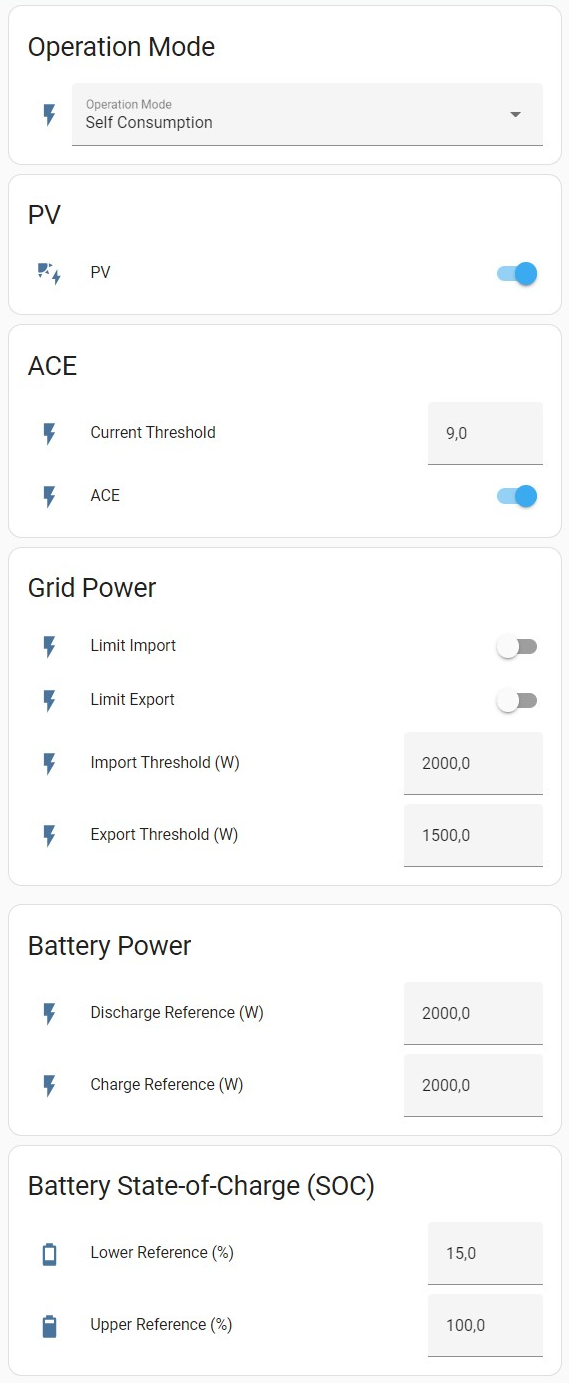
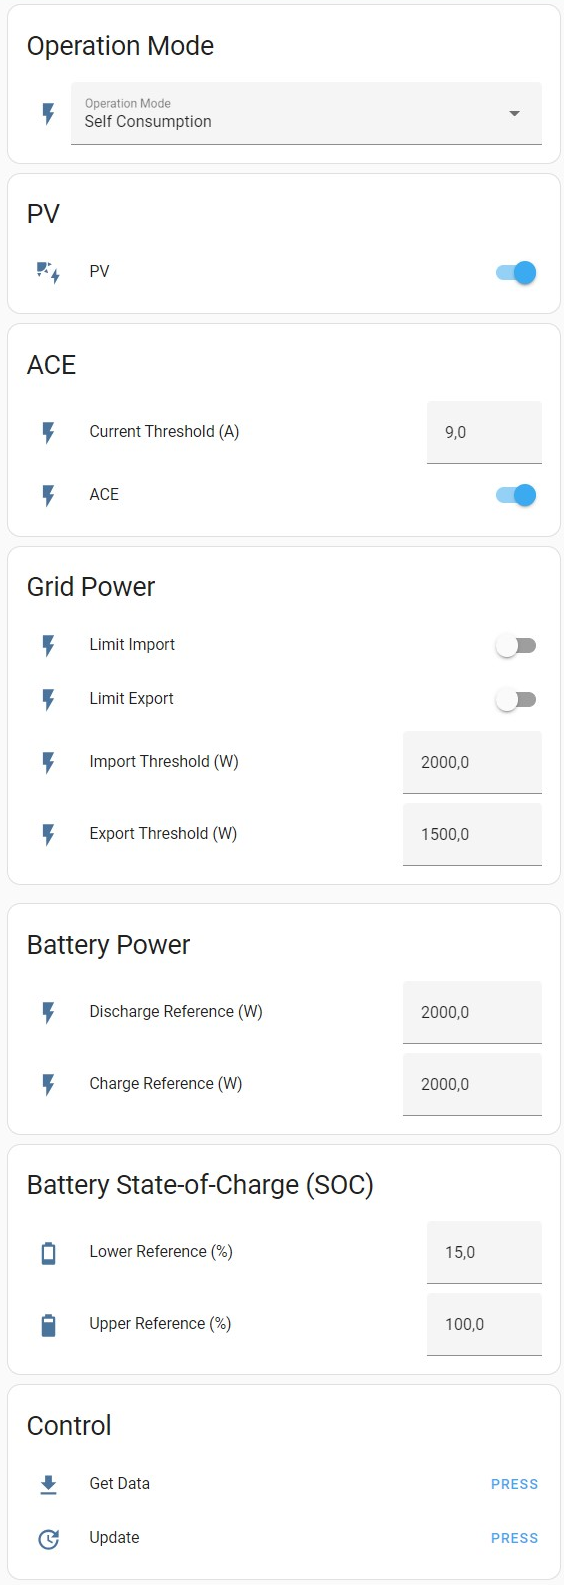
New lovelace picture.

diff --git a/README.md b/README.md
@@ -82,7 +82,7 @@ cards:
   - type: entities
     entities:
       - entity: number.ferroamp_operation_settings_ace_threshold
-        name: Current Threshold
+        name: Current Threshold (A)
       - entity: switch.ferroamp_operation_settings_ace
         name: ACE
     title: ACE
@@ -207,6 +207,14 @@ cards:
       - entity: number.ferroamp_operation_settings_upper_reference
         name: Upper Reference (%)
     title: Battery State-of-Charge (SOC)
+    show_header_toggle: false
+  - type: entities
+    entities:
+      - entity: button.ferroamp_operation_settings_get_data
+        name: Get Data
+      - entity: button.ferroamp_operation_settings_update
+        name: Update
+    title: Control
     show_header_toggle: false
 ```
 
